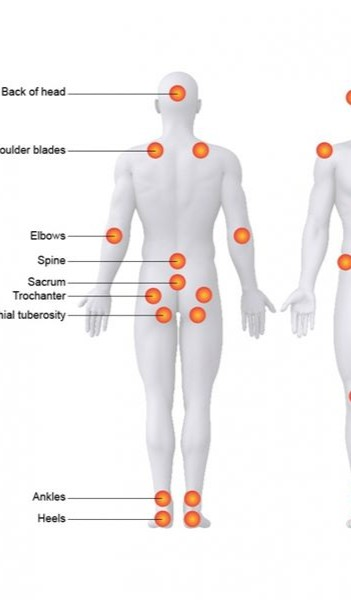
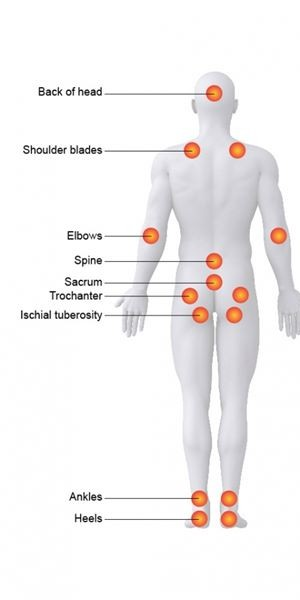
new pic

diff --git a/lib/main.dart b/lib/main.dart
@@ -1154,20 +1154,65 @@ class _BodyPartSelectionPageState extends State<BodyPartSelectionPage> {
     );
   }
 
-  Widget _viewButton(String label, IconData icon, bool viewState) => ElevatedButton.icon(onPressed: () => setState(() => isBackView = viewState), icon: Icon(icon, size: 18), label: Text(label, style: const TextStyle(fontSize: 14)), style: ElevatedButton.styleFrom(backgroundColor: isBackView == viewState ? Colors.blueAccent : const Color(0xFF2C2C2C), foregroundColor: Colors.white, padding: const EdgeInsets.symmetric(horizontal: 16, vertical: 8)));
+// 建立背部紅點 (x, y 為 0.0 ~ 1.0 的相對位置)
+List<Widget> _buildBackDots(BuildContext context, Set<String> existing) => [
+  _point(context, 0.49, 0.12, '後腦勺 (Back of Head)', existing),
+  _point(context, 0.35, 0.25, '左側肩胛骨 (L Shoulder Blade)', existing), // 圖片左側是右肩胛骨，右側是左肩胛骨，請依醫學視角確認
+  _point(context, 0.65, 0.25, '右側肩胛骨 (R Shoulder Blade)', existing),
+  _point(context, 0.25, 0.42, '左側肘部 (L Elbow)', existing),
+  _point(context, 0.75, 0.42, '右側肘部 (R Elbow)', existing),
+  _point(context, 0.50, 0.45, '脊椎 (Spine)', existing),
+  _point(context, 0.50, 0.52, '薦骨/尾椎 (Sacrum)', existing),
+  _point(context, 0.44, 0.88, '左側足跟 (L Heel)', existing),
+  _point(context, 0.56, 0.88, '右側足跟 (R Heel)', existing),
+];
+
+// 建立正面紅點 (x, y 為 0.0 ~ 1.0 的相對位置)
+List<Widget> _buildFrontDots(BuildContext context, Set<String> existing) => [
+  _point(context, 0.32, 0.16, '右側耳部 (R Ear)', existing),
+  _point(context, 0.68, 0.16, '左側耳部 (L Ear)', existing),
+  _point(context, 0.20, 0.25, '右側肩部 (R Shoulder)', existing),
+  _point(context, 0.80, 0.25, '左側肩部 (L Shoulder)', existing),
+  _point(context, 0.50, 0.34, '胸廓中央 (Chest)', existing),
+  _point(context, 0.35, 0.43, '右側髖部 (R Hip)', existing),
+  _point(context, 0.65, 0.43, '左側髖部 (L Hip)', existing),
+  _point(context, 0.35, 0.65, '右側膝蓋 (R Knee)', existing),
+  _point(context, 0.65, 0.65, '左側膝蓋 (L Knee)', existing),
+  _point(context, 0.38, 0.86, '右側足趾 (R Toes)', existing),
+  _point(context, 0.62, 0.86, '左側足趾 (L Toes)', existing),
+];
+
+// 修改後的 _point 函數
+Widget _point(BuildContext context, double xPercent, double yPercent, String name, Set<String> existing) {
+  bool isTaken = _capturedWounds.containsKey(name) || existing.contains(name);
   
-  List<Widget> _buildBackDots(BuildContext context, Set<String> existing, double w, double h) => [_point(context, 75, 165, '後腦勺 (Back of Head)', existing, w, h), _point(context, 150, 140, '左側肩胛骨 (L Shoulder Blade)', existing, w, h), _point(context, 150, 190, '右側肩胛骨 (R Shoulder Blade)', existing, w, h), _point(context, 230, 100, '左側肘部 (L Elbow)', existing, w, h), _point(context, 230, 230, '右側肘部 (R Elbow)', existing, w, h), _point(context, 230, 165, '脊椎 (Spine)', existing, w, h), _point(context, 280, 165, '薦骨/尾椎 (Sacrum)', existing, w, h), _point(context, 500, 140, '左側足跟 (L Heel)', existing, w, h), _point(context, 500, 190, '右側足跟 (R Heel)', existing, w, h)];
-  List<Widget> _buildFrontDots(BuildContext context, Set<String> existing, double w, double h) => [_point(context, 90, 125, '右側耳部 (R Ear)', existing, w, h), _point(context, 90, 205, '左側耳部 (L Ear)', existing, w, h), _point(context, 130, 95, '右側肩部 (R Shoulder)', existing, w, h), _point(context, 130, 235, '左側肩部 (L Shoulder)', existing, w, h), _point(context, 200, 165, '胸廓中央 (Chest)', existing, w, h), _point(context, 250, 110, '右側髖部 (R Hip)', existing, w, h), _point(context, 250, 220, '左側髖部 (L Hip)', existing, w, h), _point(context, 380, 125, '右側膝蓋 (R Knee)', existing, w, h), _point(context, 380, 205, '左側膝蓋 (L Knee)', existing, w, h), _point(context, 500, 140, '右側足趾 (R Toes)', existing, w, h), _point(context, 500, 190, '左側足趾 (L Toes)', existing, w, h)];
-
-  Widget _point(BuildContext context, double originalTop, double originalLeft, String name, Set<String> existing, double w, double h) {
-    bool isTaken = _capturedWounds.containsKey(name) || existing.contains(name);
-    double topPos = (originalTop / 600) * h;
-    double leftPos = (originalLeft / 350) * w;
-
-    return Positioned(
-      top: topPos, left: leftPos,
-      child: GestureDetector(
-        onTap: () async {
+  // 使用 Align 來做相對定位，Alignment 的範圍是 -1.0 到 1.0，
+  // 所以我們將 0.0~1.0 的百分比轉換為 -1.0~1.0
+  return Align(
+    alignment: Alignment(
+      (xPercent * 2) - 1, 
+      (yPercent * 2) - 1
+    ),
+    child: GestureDetector(
+      onTap: () {
+        // 點擊事件處理
+        print('Tapped on $name');
+      },
+      child: Container(
+        width: 20, // 紅點大小
+        height: 20,
+        decoration: BoxDecoration(
+          color: isTaken ? Colors.grey : Colors.redAccent.withOpacity(0.8),
+          shape: BoxShape.circle,
+          border: Border.all(color: Colors.white, width: 2),
+          boxShadow: [
+            BoxShadow(color: Colors.black45, blurRadius: 4),
+          ],
+        ),
+      ),
+    );
+  }
+}
           if (isTaken) {
             ScaffoldMessenger.of(context).showSnackBar(const SnackBar(content: Text('⚠ 已有紀錄，請至歷史紀錄刪除重拍。', style: TextStyle(fontSize: 14))));
           } else {
